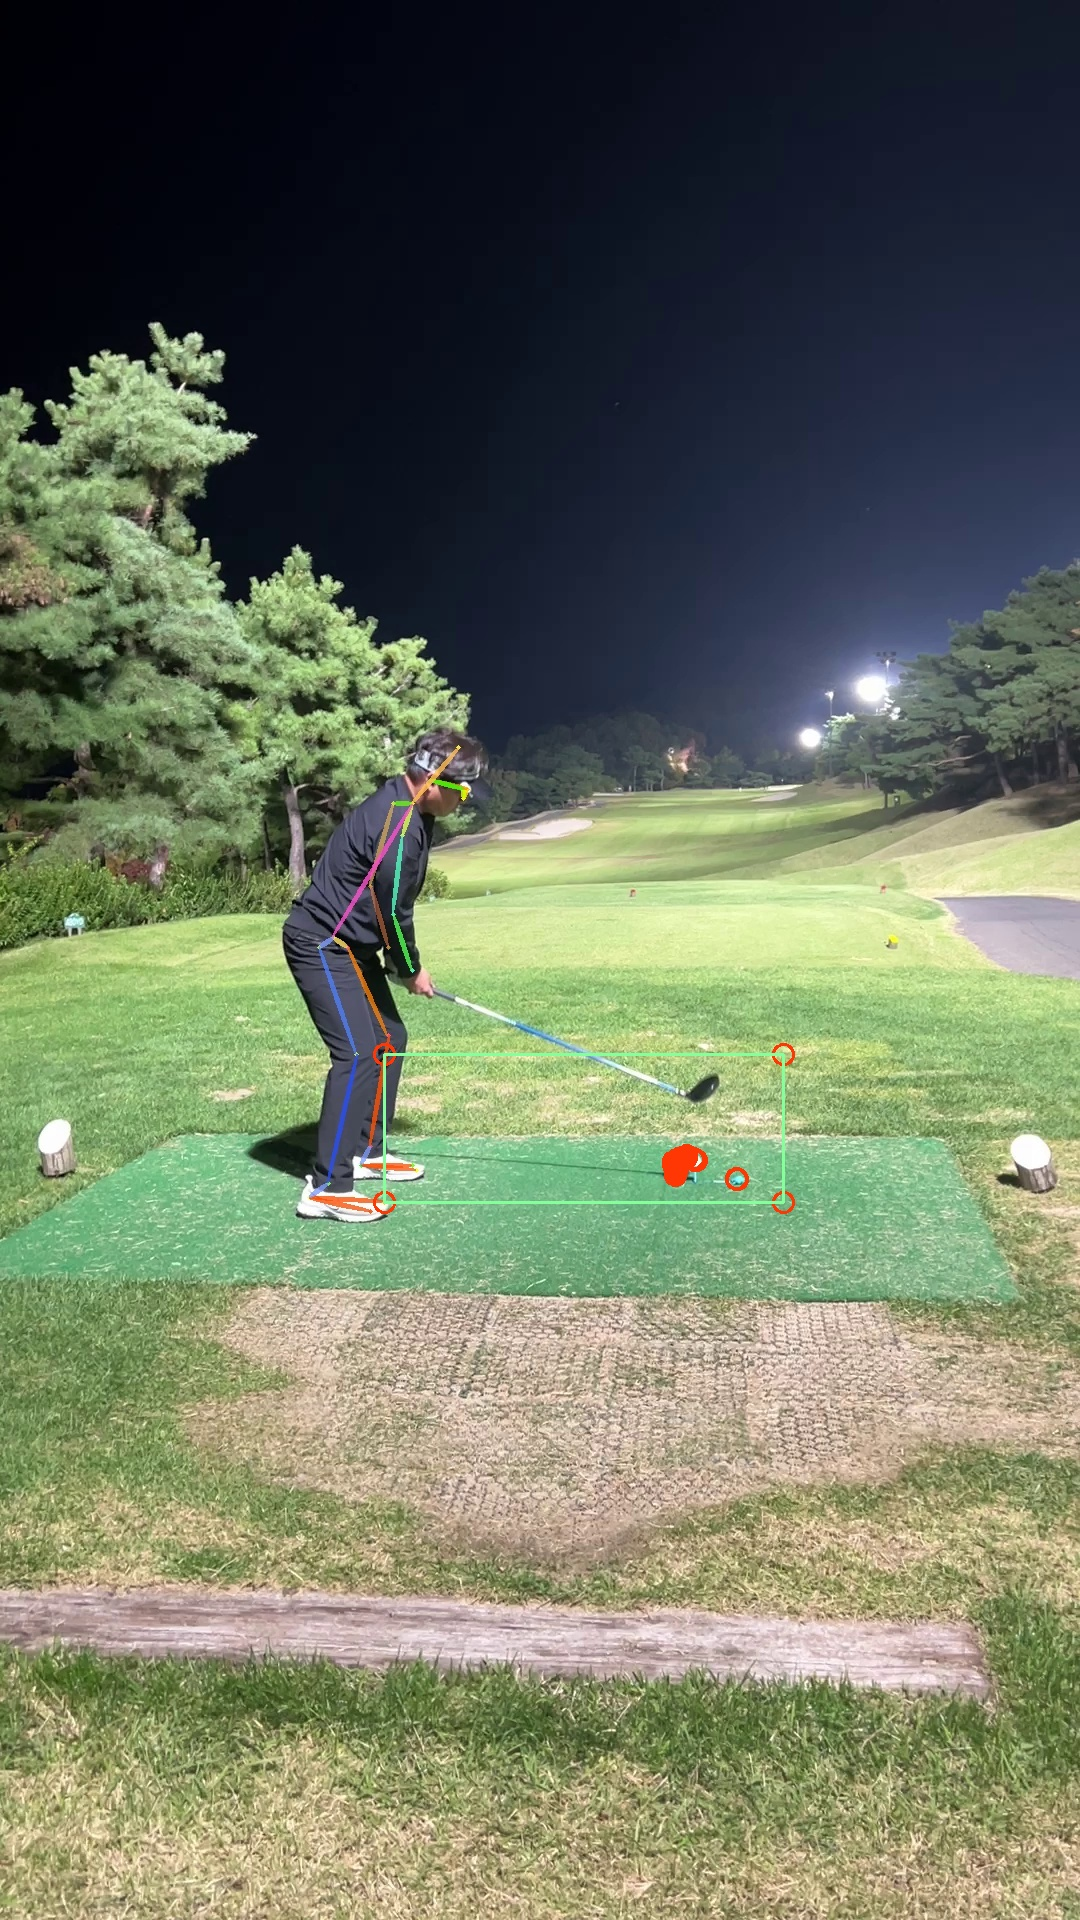
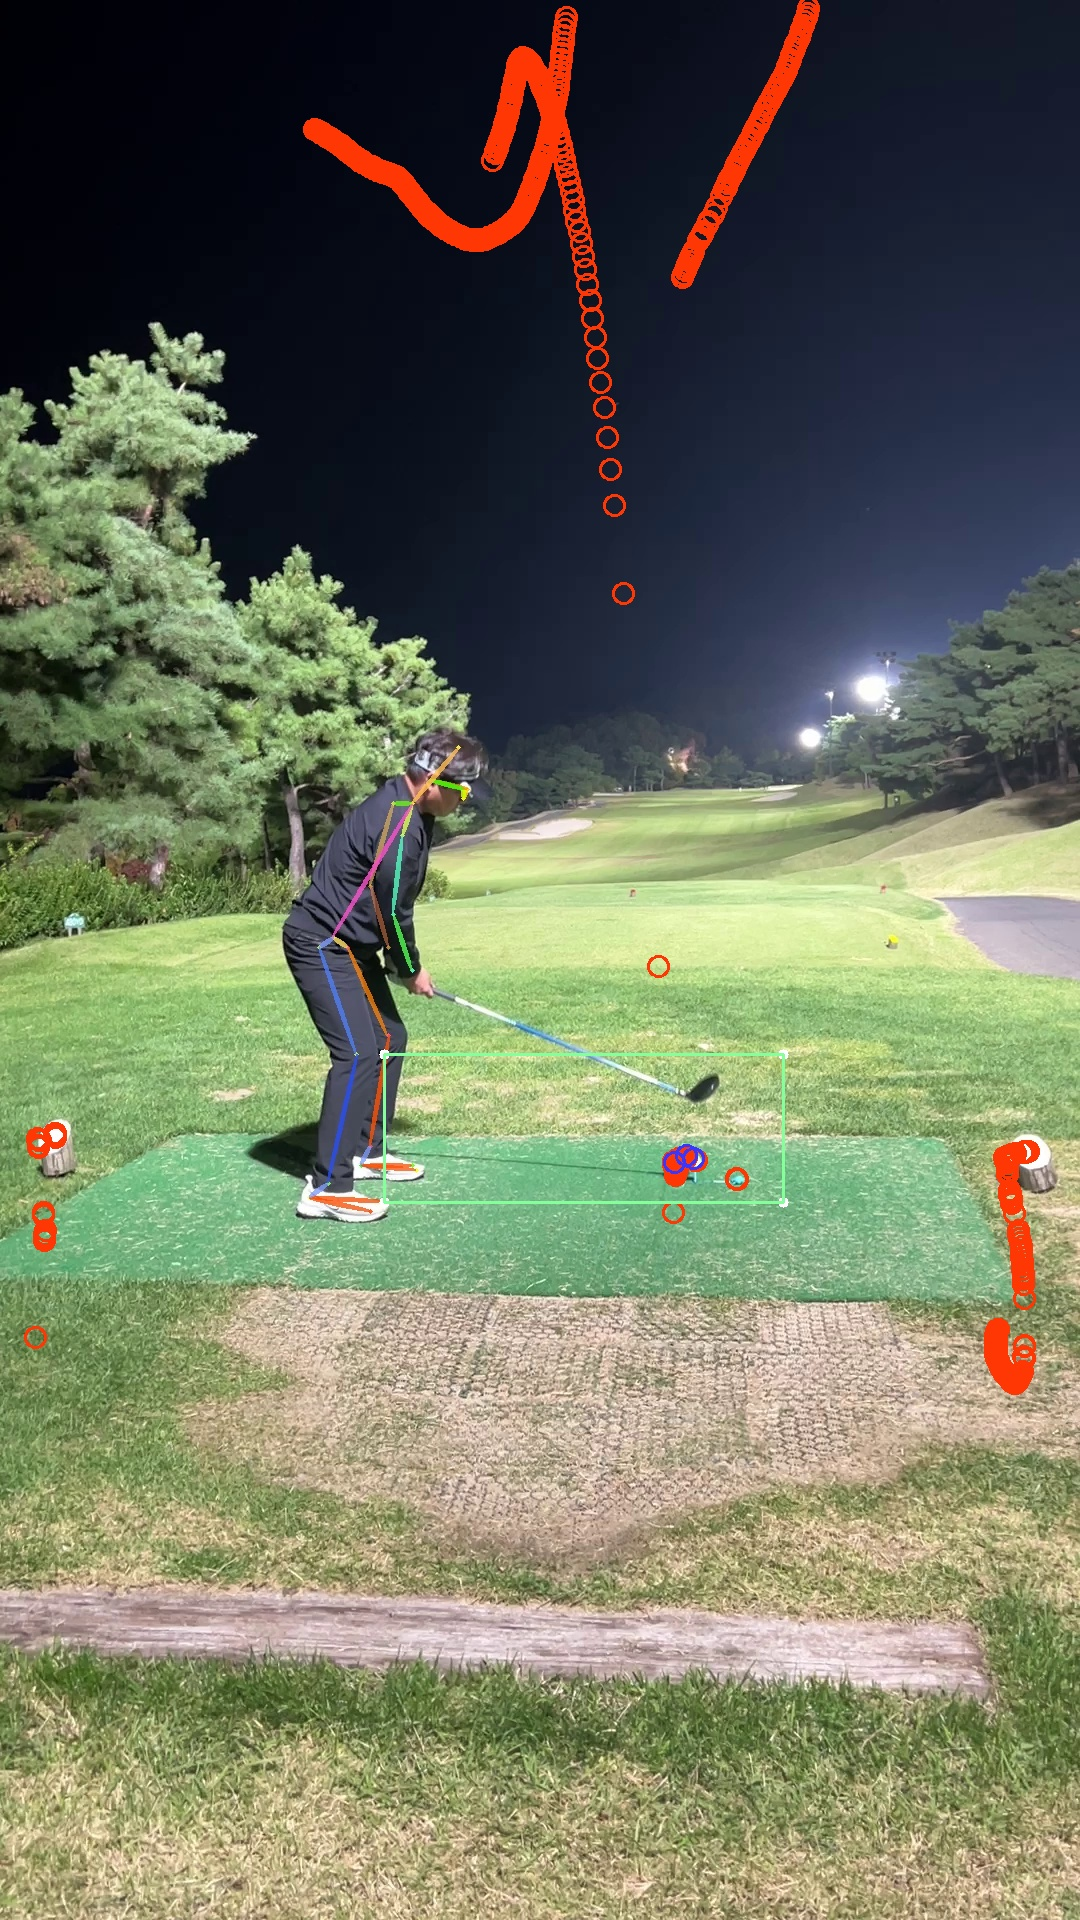
4lab

diff --git a/ball.py b/ball.py
@@ -7,14 +7,14 @@ import cv2
 from symbol import except_clause
 
 
-def draw_center_on_image(ball_data, img):
-    frame, radius, color, thickness = img, 10, (5, 55, 255), 2 
+def draw_center_on_image(ball_data, img, color):
+    frame, radius, color2, thickness = img, 10, (5, 55, 255), 2 
     for i, d in enumerate(ball_data):
         center_coordinates = d[3],d[4]
         img = make_circle(frame, center_coordinates, radius, color, thickness)
     return img
 def draw_point_on_image(points, img):
-    frame, radius, color, thickness = img, 10, (5, 55, 255), 2 
+    frame, radius, color, thickness = img, 5, (255, 255, 255), -1 
     for i, d in enumerate(points):
         center_coordinates = d[0],d[1]
         img = make_circle(frame, center_coordinates, radius, color, thickness)
@@ -34,17 +34,107 @@ def ball_area(pose_points):
     return points
 
 
+def initial_balls(ball_data, points):
+    initial_ball_list = []
+    for i, d in enumerate(ball_data):
+        try:
+            if d[3]>points[0][0] and d[3]<points[1][0]and d[4]>points[0][1] and d[4]<points[-1][1]:
+                initial_ball_list.append(ball_data[i])
+        except:
+            print(f'iteration is done..')
+    print(f'initial balls found: {len(initial_ball_list)}')
+    return initial_ball_list
+
+
+
+def find_intl_ball(intl_balls): # frame_k, conf, dm, cx, cy, x1, y1, x2, y2
+    # -----------------------------------------------------------------
+    # finding avarage x y centers indie intial position 
+    x_center = []
+    y_center = []
+    for i in intl_balls:
+        x_center.append(i[3])
+    for i in intl_balls:
+        y_center.append(i[4])
+    avg_x = sum(x_center)/len(x_center)
+    avg_y = sum(y_center)/len(y_center)
+    print(f'avarage x: {avg_x} and y: {avg_y}')
+    # -----------------------------------------------------------------
+    
+    # -----------------------------------------------------------------
+    # find last right ball in initial position 
+    for i in range(len(intl_balls)):
+        if avg_x+15 >= intl_balls[-i-1][3]>=avg_x-15 and avg_y+15 >= intl_balls[-i-1][4]>=avg_y-15:
+            initial_move = intl_balls[-i-1]
+            break #continue
+    print('initial move ' , initial_move)
+    # -----------------------------------------------------------------
+
+
+    filtered_intl_balls = []
+    dropped_intl_balls = []
+    im_w, im_h = 1080, 1920
+    print('number of intl balls ',len(intl_balls))
+    scale = 10.000001
+    scale2 = 0.001
+    print('scale ratio : ', im_w*scale)
+    ubn_ball = 0
+    for i, b in enumerate(intl_balls):
+        try: 
+            if not ubn_ball:
+                ubn_ball  = intl_balls[i]
+                print('ubn ball ', ubn_ball)
+           # print(b)
+            if intl_balls[i][3]<=intl_balls[i-1][3]-im_w*scale2: # im_w*0.02 = 21
+                print(b)
+                dropped_intl_balls.append(b) 
+
+            if intl_balls[i][3]>=intl_balls[i-1][3]-im_w*scale <= intl_balls[i+1][3] and intl_balls[i][3]<=intl_balls[i-1][3]+im_w*scale or intl_balls[i][4]>=intl_balls[i-1][4]-im_w*scale and intl_balls[i][4]<=intl_balls[i-1][4]+im_w*scale: # im_w*0.02 = 21
+                if  ubn_ball[3]>=intl_balls[i-1][3]-im_w*scale and ubn_ball[3]<=intl_balls[i-1][3]+im_w*scale or ubn_ball[4]>=intl_balls[i-1][4]-im_w*scale and ubn_ball[4]<=intl_balls[i-1][4]+im_w*scale:
+                    #filtered_intl_balls.append(b)
+                    ubn_ball  = intl_balls[i]
+                    #print(b)
+
+                else:
+                    print('still false detection')
+                    # dropped_intl_balls.append(b)
+                    #pass
+            else:
+                print(b)
+                ubn_ball = intl_balls[i]
+                before_ubn = intl_balls[i-1]
+                #if intl_balls[i][3]<=intl_balls[i-1][3]-im_w*scale2 or intl_balls[i][3]>=intl_balls[i-1][3]+im_w*scale2 or intl_balls[i][4]<=intl_balls[i-1][4]-im_w*scale2 or intl_balls[i][4]>=intl_balls[i-1][4]+im_w*scale2: # im_w*0.02 = 21
+                if intl_balls[i][3]<=intl_balls[i-1][3]-im_w*scale2: # im_w*0.02 = 21
+                    dropped_intl_balls.append(b)
+
+          #  if intl_balls[i][3]>65:
+           #     print(intl_balls[i])
+                
+            """     
+            print(intl_balls[i][3])
+            print(f"{intl_balls[i][3]} >= {intl_balls[i-1][3]-(im_w*scale)}")
+            print(f"{intl_balls[i][3]} <= {intl_balls[i-1][3]+im_w*scale}")
+            print(intl_balls[i][4])
+            print(f"{intl_balls[i][4]}>={intl_balls[i-1][4]-im_w*scale}")
+            print(f"{intl_balls[i][4]}<={intl_balls[i-1][4]+im_w*scale}")
+            """
+        except:
+            print('excepting, need second ball position too') 
+
+   # print(len(filtered_intl_balls))
+   # print('scale ', im_w*scale)
+    print('filtered intl balls ',len(filtered_intl_balls))
+    print('dropped intl balls ',len(dropped_intl_balls))
+
+    return filtered_intl_balls, dropped_intl_balls, initial_move
 
 def filter_dm(ball_data, points):
     ball_fileted = []
     for i, d in enumerate(ball_data):
         try:
-            # if ball_data[i][2] > ball_data[i+1][2] and ball_data[i+1][2] > ball_data[i+2][2]:
-            # if ball_data[i][2] < ball_data[i+1][2]*0.8 and ball_data[i][2] < ball_data[i+2][2]*0.5 and d[0]>points[0][0] and d[0]>points[1][0] and d[1]>points[0][1] and d[1]>points[-1][1]:
-            # if d[3]>points[0][0] and d[3]>points[1][0] and d[4]>points[0][1] and d[4]>points[-1][1]:
-            if d[3]>points[0][0] and d[3]<points[1][0]and d[4]>points[0][1] and d[4]<points[-1][1]:
-                ball_fileted.append(ball_data[i])
-                print(d)
+            if ball_data[i][2] > ball_data[i+1][2] and ball_data[i+1][2] > ball_data[i+2][2]: 
+                pass
+              #  print(d)
         except:
             print('no more value in list')
     print('filtering is done;;')
@@ -53,12 +143,16 @@ def filter_dm(ball_data, points):
 def main(json_data, pose_data, img_path):
     # read inputs
     img = im_read(img_path)
+    img_h, img_w, img_ch = img.shape
+    print(img_w, img_h, img_ch)
     json_data = read_json(json_data)
     pose_data = read_json(pose_data)
     
     # print json data 
     list_ball_info = json_data["ball_data"]
     print('ball ceter length: ', len(list_ball_info))
+    # for i in list_ball_info:
+    #     print('ball ', (i))
     
     # key points 
     key_points = pose_data[0]["keypoints"]
@@ -68,14 +162,28 @@ def main(json_data, pose_data, img_path):
     neck = [int(key_points[54]),int(key_points[55])]
     pose_points = [knee, big_toe, neck]
     points = ball_area(pose_points)
-    print(points)
+#    print(points)
     
-    # filter ball data 
-    list_ball_info = filter_dm(list_ball_info, points)
     
+    
+    
+    # filter ball data
+    
+    
+     
+    list_initial_balls = initial_balls(list_ball_info, points)
+       # list_ball_info_filt = initial_balls(list_ball_info, points)
+
+    filtered_initial_balls, dropped_intl_balls, initial_move = find_intl_ball(list_initial_balls)
+
+
     # draw ceters on image 
     list_ball_info = list_ball_info
-    img = draw_center_on_image(list_ball_info, img)        
+    img = draw_center_on_image(list_ball_info, img, color=(5, 55, 255))        
+  #  img = draw_center_on_image(list_initial_balls, img, color=(255, 55, 255)) 
+    img = draw_center_on_image(filtered_initial_balls, img, color=(255, 55, 255)) 
+    img = draw_center_on_image(dropped_intl_balls, img, color=(255, 55, 55)) 
+          
     img = draw_point_on_image(points, img)        
     img = make_rect(img, points[0], points[3], color=(155, 255, 133), thickness=2)
     
@@ -84,15 +192,18 @@ def main(json_data, pose_data, img_path):
     print(out_path)
     out_name = img_path.split("/")[-1].split(".")[0]
     im_save(img, out_path, out_name)
-    
+    img_scale = 0.5
+    img = cv2.resize(img, (int(img_w*img_scale), int(img_h*img_scale))) 
+    cv2.imshow('image',img)
+    cv2.waitKey(0)
     print('main is done..')
     return
 
 if __name__=="__main__":
     
-    json_data = '/Users/jakhon37/pyProjects/ball_detection/data/06m_out/06m_info.json'
-    pose_data = '/Users/jakhon37/pyProjects/ball_detection/data/alphapose-results.json'
-    img = '/Users/jakhon37/pyProjects/ball_detection/data/06m_pose.jpg'
+    json_data = 'data/06m_out/06m_info.json'
+    pose_data = 'data/alphapose-results.json'
+    img = 'data/06m_pose.jpg'
     
     
     main(json_data, pose_data, img)
